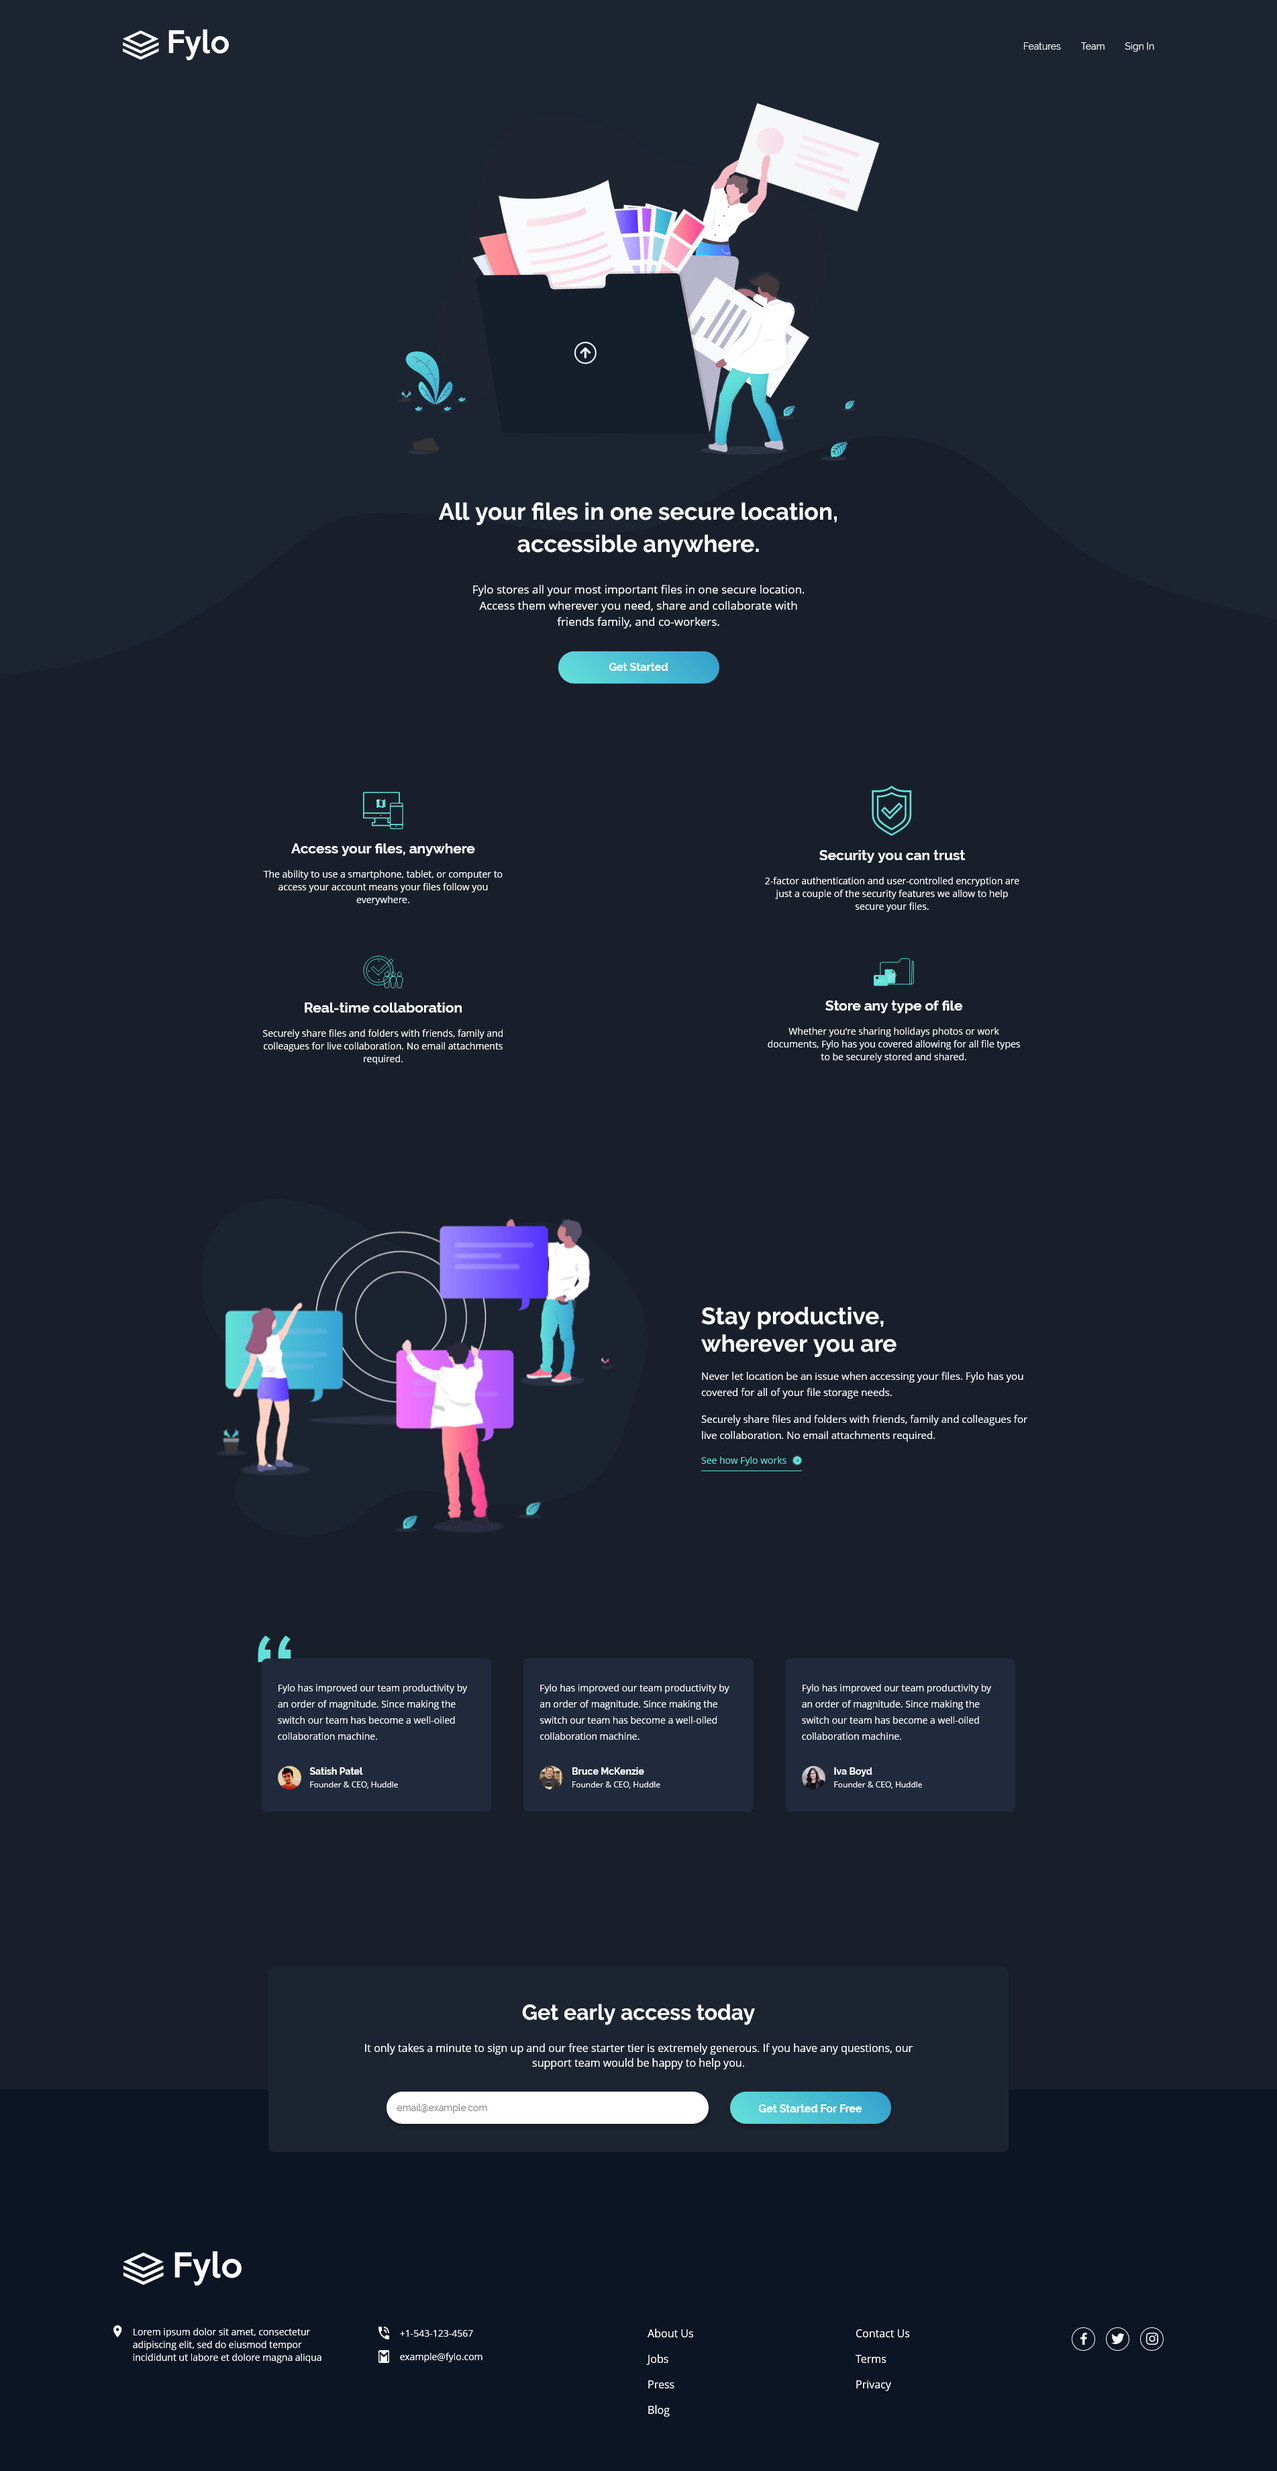
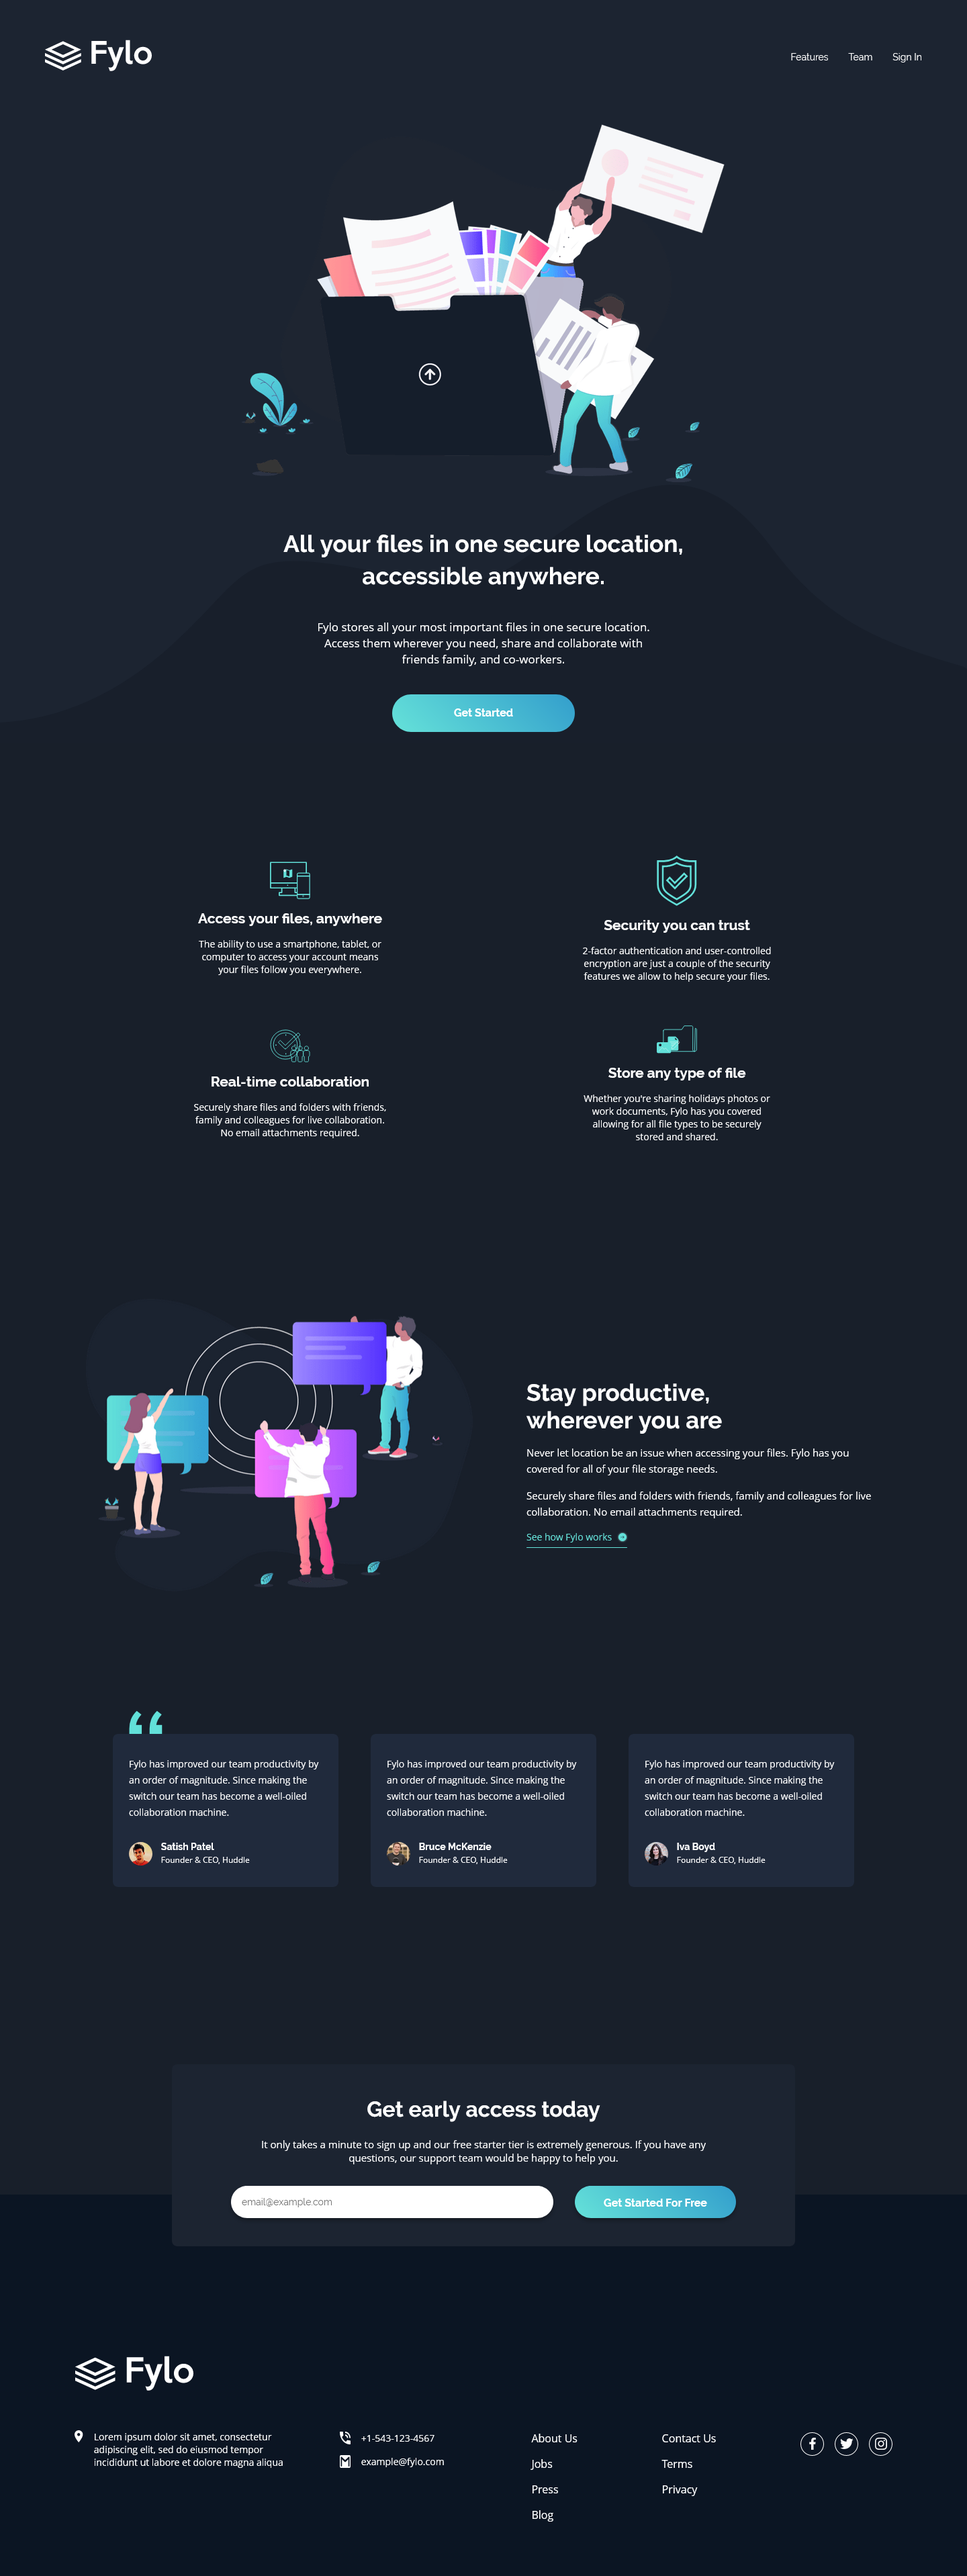
scroll reveal and quotes img adjustment

diff --git a/script/main.js b/script/main.js
@@ -48,11 +48,11 @@ const sr = ScrollReveal({
     // reset: true,
 });
 
-// sr.reveal(`.intro-info`);
-// sr.reveal(`.box-container`, {delay: 400});
-// sr.reveal(`.productive-illus`, {delay: 400});
-// sr.reveal(`.productive-info`, {delay: 400, origin: 'bottom'});
-// sr.reveal(`.testimonial_card, .testimonial-bg-quotes`, {delay: 400, origin: 'bottom'});
-// sr.reveal(`.form-container`, {delay: 400});
-// sr.reveal(`.footer_logo`, {delay: 600});
-// sr.reveal(`.footer-info-container`, {delay: 600, origin: 'bottom'});
+sr.reveal(`.intro-info`);
+sr.reveal(`.box-container`, {delay: 400});
+sr.reveal(`.productive-illus`, {delay: 400});
+sr.reveal(`.productive-info`, {delay: 400, origin: 'bottom'});
+sr.reveal(`.testimonial_card, .testimonial-bg-quotes`, {delay: 400, origin: 'bottom'});
+sr.reveal(`.form-container`, {delay: 400});
+sr.reveal(`.footer_logo`, {delay: 600});
+sr.reveal(`.footer-info-container`, {delay: 600, origin: 'bottom'});

diff --git a/style/style.css b/style/style.css
@@ -1034,7 +1034,7 @@ h2 {
         width: 50px;
         position: relative;
         top: 1.6rem;
-        left: 12rem;
+        left: 25rem;
         z-index: -1;
     }
 
